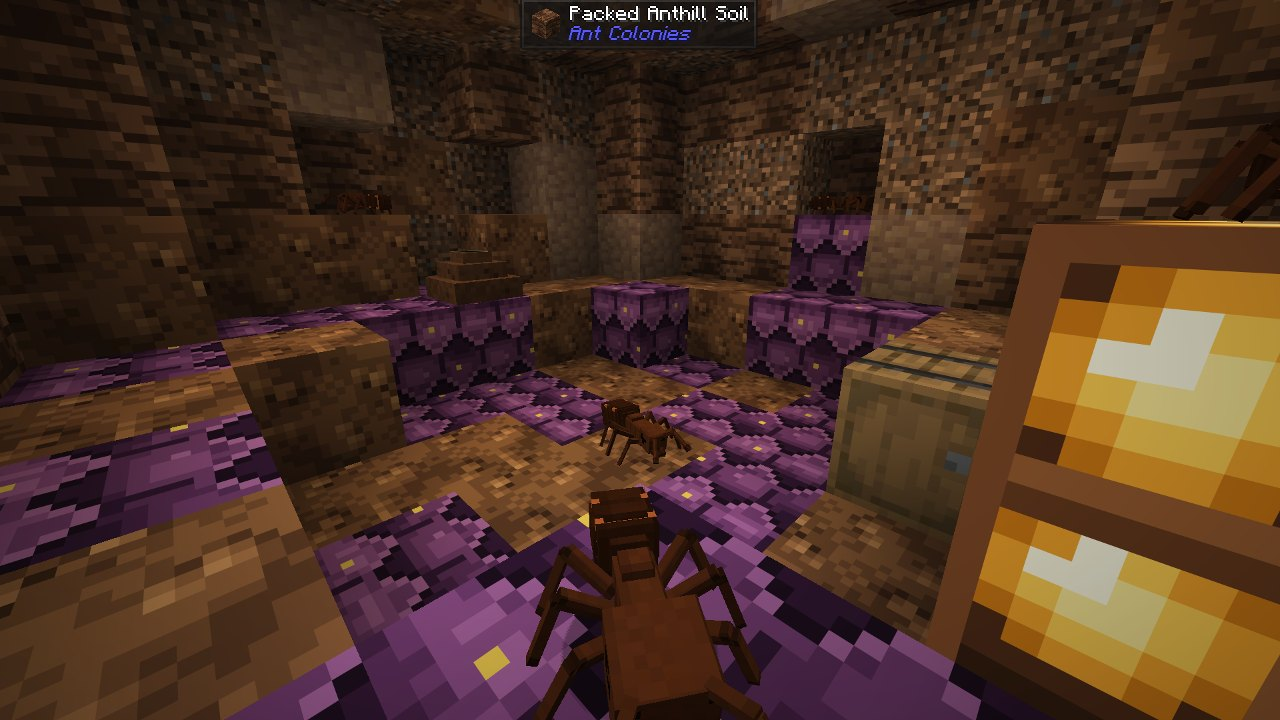
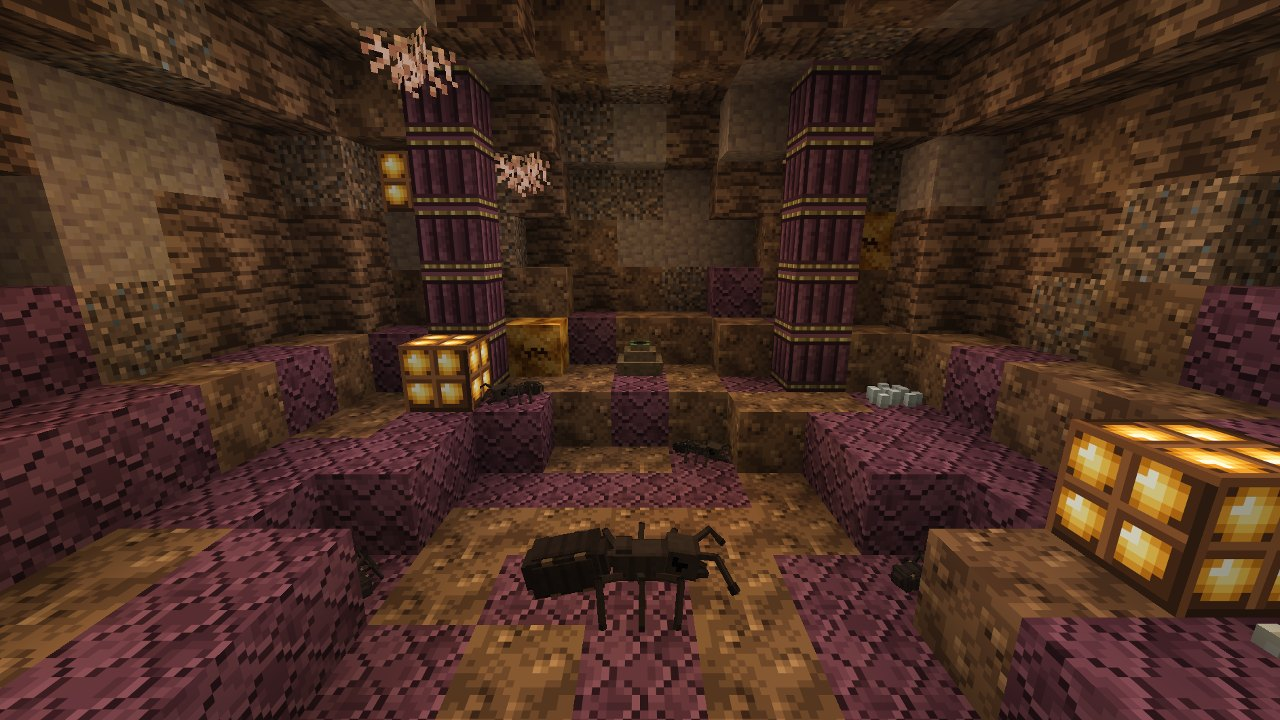
README, gallery and CurseForge page for 0.7.0: ants for fun, hunters, anthills by biome and inside, a wild nest, new building blocks

diff --git a/docs/curseforge-page.md b/docs/curseforge-page.md
@@ -49,8 +49,9 @@ into thousands of workers that mine, farm, hunt and evolve.
 
 - **Living colonies.** A Formicarium holds a whole colony you can watch: tunnels, eggs, larvae and workers. Place
   chambers against it to grow it: nests, Foraging and Harvesting Sites, Hunting Grounds and Storage.
-- **56 species.** Catch 16 wild ones, mutate them into iron, diamond, netherite and other mineral ants, breed hybrids,
-  and reach the endgame Wither and Dragon Ants.
+- **56 species.** Catch 17 wild ones, mutate them into iron, diamond, netherite and other mineral ants, breed hybrids,
+  and reach the endgame Wither and Dragon Ants. Ten are just for fun: a Cow Ant that gives milk, a Baker, a Pirate, a
+  Fisher.
 - **Genetic research.** Scan materials in the Genetic Laboratory. Discoveries are permanent, fill in the Ant
   Identification Book and unlock species mutations.
 - **Genetics.** Every Queen has ten traits and can carry any of 31 mutations, and the game says what each one does.
@@ -61,8 +62,9 @@ into thousands of workers that mine, farm, hunt and evolve.
   droplets into the real fluid.
 - **Expeditions.** Nether and End ants bring back that dimension's riches through little portals at home.
 - **Colony Connectors.** Link nearby colonies so food and items flow to where they are needed.
-- **Anthills.** Explore giant anthills in the Overworld, the Nether and the End, each shaped by its biome, with loot,
-  soldiers and a great Queen guarded by her Royal Guard Ants. Touch their chests and the whole anthill comes after you.
+- **Anthills.** Explore giant anthills in the Overworld, the Nether and the End, each built and furnished to suit its
+  biome, with loot, soldiers and a great Queen guarded by her Royal Guard Ants. Touch their chests and the whole
+  anthill comes after you.
 - **Chitin gear.** Four tiers of ant armor and tools, with jaws, spines and wings. In a full set, wild ants leave you
   alone.
 - **Building blocks.** Anthill bricks, chitin plates, amber, fungal and royal blocks, with stairs, slabs and walls.
@@ -75,7 +77,7 @@ into thousands of workers that mine, farm, hunt and evolve.
 ## Getting started
 
 1. Craft **Tweezers** and **Test Tubes**.
-2. Use the Tweezers on a wild ant nest until you catch a Queen.
+2. Use the Tweezers on a wild ant nest: your first catch from each kind of nest is a Queen.
 3. Place a **Formicarium** and put the Queen and some Ant Food in it.
 4. Add chambers as the colony grows. JEI or EMI shows every recipe.
 5. Build a **Genetic Laboratory**, scan materials in it and mutate your Queens into mineral ants.
@@ -99,7 +101,7 @@ Free to use in any modpack (MIT License).
 
 ## 3. Images (Media tab)
 
-Upload these 27 from `docs/images/screenshots/`, in this order:
+Upload these 33 from `docs/images/screenshots/`, in this order:
 
 | File | Title | Description |
 |---|---|---|
@@ -107,6 +109,8 @@ Upload these 27 from `docs/images/screenshots/`, in this order:
 | `terrarium.jpg` | A living Formicarium | Workers dig tunnels and carry food behind the glass |
 | `vertical-formicarium.jpg` | Built upward | Stacked blocks become one nest behind glass, chambers joined by tunnels |
 | `liquid-ants.jpg` | Liquid Ants | Ants that carry fluids, and the Droplet Centrifuge |
+| `ants-for-fun.jpg` | Ants for fun | Ten species in costumes: a Cow Ant, a Baker, a Pirate and more |
+| `hunting-ground.jpg` | Hunters | Bullet Ants fighting at their Hunting Ground |
 | `colony-screen.png` | The colony screen | Queen, health, food and ants at a glance |
 | `jobs-screen.png` | Jobs | Ants, priority and modes for every working site |
 | `statistics-screen.png` | Statistics | The colony over the last half hour |
@@ -123,9 +127,13 @@ Upload these 27 from `docs/images/screenshots/`, in this order:
 | `chitin-tiers-back.jpg` | Spines and wings | The higher tiers from behind |
 | `expedition-sites.jpg` | Expeditions | Nether and End Foraging Sites |
 | `connected-colonies.jpg` | Colony Connectors | Food and items between nearby colonies |
-| `building-blocks.jpg` | Building blocks | Anthill, chitin, amber, fungal and royal blocks |
-| `giant-anthill.jpg` | A giant anthill | A structure shaped by its biome, with loot and defenders |
-| `anthill-queen-chamber.jpg` | Inside an anthill | Tunnels and chambers, and a Queen to catch |
+| `building-blocks.jpg` | Building blocks | Anthill, chitin, royal, amber and fungal blocks, and anthill soil in four of its tones |
+| `giant-anthill.jpg` | A giant anthill | A structure with loot and defenders |
+| `anthills-overworld.jpg` | Anthills by biome | Desert, badlands, taiga and ice spikes |
+| `anthills-nether-end.jpg` | Nether and End anthills | Crimson and warped forests, a soul sand valley and the End's highlands |
+| `anthill-queen-chamber.jpg` | Inside an anthill | The great Queen's chamber, and a Queen to catch |
+| `anthill-rooms.jpg` | Furnished rooms | A fungus garden, an aphid farm, a nursery and a treasure chamber |
+| `wild-nest.jpg` | A wild nest | One worker walks around every nest |
 | `machines.jpg` | The machines | The Generator and the Droplet Centrifuge, working and idle |
 | `recipe-viewer.png` | JEI and EMI | Expeditions and every recipe |
 | `recipe-viewer-mutation.png` | Species Mutation recipes | Every species mutation and what it needs |

diff --git a/docs/gameplay.md b/docs/gameplay.md
@@ -29,13 +29,16 @@ The numbers on these pages are the defaults. A server can change most of them in
 ## Getting started
 
 1. Craft **Tweezers** and a few **Test Tubes**.
-2. Find wild ants or a wild **Ant Nest**. They live in plains, forests, taigas, mountains, snowy biomes, deserts and
-   jungles. A nest is easy to miss, so look for its ant: **one worker walks around every wild nest** while you are near.
-   Right-click the nest or an ant with the Tweezers. Workers go into a tube of the same ants if you carry one with room,
-   anything else into an empty tube from your inventory. **Your first catch from each kind of nest is always a Queen**:
-   one from the first Stone Ant nest you try, one from the first Wood Ant nest, and so on. After that a nest of that
-   kind gives a Queen only now and then (5%). **A nest you took ants from needs ten minutes** until its ants are
-   back: Tweezers on it show the time left, and so does Jade.
+2. Find a wild **Ant Nest** or wild ants, and right-click the nest or an ant with the Tweezers. They live in plains,
+   forests, taigas, mountains, snowy biomes, deserts and jungles.
+   - **Look for the nest's ant.** A nest is easy to miss, but one worker walks around every wild nest while you are
+     near.
+   - **Your first catch from each kind of nest is always a Queen**: one from the first Stone Ant nest you try, one
+     from the first Wood Ant nest, and so on. After that a nest of that kind gives a Queen only now and then (5%).
+   - **A nest you took ants from needs ten minutes** until its ants are back. Tweezers on it show the time left, and
+     so does Jade.
+   - **Tubes.** Workers go into a tube of the same ants if you carry one with room, anything else into an empty tube
+     from your inventory.
 3. Place a **Formicarium**. Put the **Queen Test Tube** in (right-click, or the Queen slot) and add some **Ant Food**.
 4. Open the **Info** tab. If the climate is wrong, put the block it shows under the Formicarium.
 5. Add chambers as the colony grows: a **Nest Chamber** for more ants, a **Foraging Site** to put workers to work and a
@@ -154,7 +157,7 @@ Chambers join a colony. Job sites that only some species use are left alone by t
 | Nest Chamber | Eggs at full speed, faster larvae, and room for 3,000 adults and 1,500 larvae. More chambers lay faster, each a little less. |
 | Foraging Site | Workers find the species' items. Takes species upgrades. |
 | Harvesting Site | Farmer species grow food and harvest mushrooms, seeds and berries. |
-| Hunting Ground | Hunter species hunt mobs. Each catch gives the mob's own drops and 40 food. No mobs are spawned. Its nine slots hold the loot while the Storage is full. From stage 3 Bullet Ants also bring phantom membranes and Rabbit Ants, rarely, a rabbit's foot, drops those mobs only give a player. |
+| Hunting Ground | Hunter species hunt mobs. Each catch gives the mob's own drops and 40 food. Behind the glass the hunters fight a small mob of the kind they hunt; no real mob is spawned. Its nine slots hold the loot while the Storage is full. From stage 3 Bullet Ants also bring phantom membranes and Rabbit Ants, rarely, a rabbit's foot. |
 | Liquid Chamber | [Liquid Ants](#liquid-ants-and-the-droplet-centrifuge) give droplets of their fluid. |
 | Storage | Holds the finds in 18 slots and adds 25,000 food room. Hoppers can empty it. |
 | Queen Chamber | Raises daughter Queens. With a Genetic Sample it can raise [hybrids](species-and-genetics.md#hybrids). |

diff --git a/README.md b/README.md
@@ -24,7 +24,7 @@ that mine, farm, hunt and evolve.
 
 - **Living colonies.** A Formicarium holds a Queen, her brood and thousands of workers you can watch behind the glass.
   Chambers placed against it join the colony.
-- **56 species.** Catch 16 wild ones, mutate them into iron, diamond and netherite ants, breed hybrids, and reach the
+- **56 species.** Catch 17 wild ones, mutate them into iron, diamond and netherite ants, breed hybrids, and reach the
   endgame Wither and Dragon Ants. Ten are just for fun: a Cow Ant that gives milk, a Baker, a Pirate, a Fisher.
 - **Genetic research.** Scan materials in the Genetic Laboratory to discover species mutations and genes for good.
 - **Genetics.** Every Queen has ten traits and can carry any of 31 mutations. Edit, cross and stabilize her genes in
@@ -32,7 +32,8 @@ that mine, farm, hunt and evolve.
 - **Liquid Ants.** Ants that carry water, lava and other mods' fluids, and a Droplet Centrifuge for their droplets.
 - **The Nether and the End.** Expeditions through little portals at home, and Colony Connectors that share food and
   items.
-- **Giant anthills.** Structures in all three dimensions, with loot, soldiers and a great Queen to catch.
+- **Giant anthills.** Structures in all three dimensions, built and furnished to suit their biome, with loot, soldiers
+  and a great Queen to catch.
 - **Chitin gear and Guard Ants.** Four tiers of armor and tools, and an ant that follows you and fights for you.
 - **Made for modpacks.** Species, evolutions, mutations, food and loot are data packs, and a server config sets the
   numbers. JEI, EMI and Jade are supported, and any mod's pipes and cables work.
@@ -47,8 +48,10 @@ that mine, farm, hunt and evolve.
 | A colony built upward: one nest behind glass | Liquid Ants and the Droplet Centrifuge |
 | ![The Genetic Laboratory's scanner](docs/images/screenshots/laboratory-research.png) | ![Species Mutation](docs/images/screenshots/laboratory-mutation.png) |
 | Genetic research: scan a material, keep the discovery | Species Mutation: a Stone Ant Queen becomes an Iron Ant |
-| ![Giant anthill](docs/images/screenshots/giant-anthill.jpg) | ![Chitin armor tiers](docs/images/screenshots/chitin-tiers.jpg) |
-| A giant anthill | Chitin, Hardened, Infernal and Void armor |
+| ![Ants for fun](docs/images/screenshots/ants-for-fun.jpg) | ![Hunters at a Hunting Ground](docs/images/screenshots/hunting-ground.jpg) |
+| The ten ants for fun, each in its costume | Hunters fighting at their Hunting Ground |
+| ![Anthills of the Overworld](docs/images/screenshots/anthills-overworld.jpg) | ![Chitin armor tiers](docs/images/screenshots/chitin-tiers.jpg) |
+| Giant anthills take the look of their biome | Chitin, Hardened, Infernal and Void armor |
 
 More in the [gallery](docs/gallery.md).
 

diff --git a/docs/gallery.md b/docs/gallery.md
@@ -12,6 +12,8 @@ Screenshots of Ant Colonies. The [gameplay guide](gameplay.md) explains what the
 | A colony built upward: one nest behind glass, its chambers joined by tunnels | Liquid Ants, each carrying its fluid, and the Droplet Centrifuge |
 | ![Expedition sites](images/screenshots/expedition-sites.jpg) | ![Connected colonies](images/screenshots/connected-colonies.jpg) |
 | Nether and End Foraging Sites | Colonies linked by Colony Connectors |
+| ![Ants for fun](images/screenshots/ants-for-fun.jpg) | ![Hunters at a Hunting Ground](images/screenshots/hunting-ground.jpg) |
+| The ten ants for fun, each in its costume | Bullet Ants fighting at their Hunting Ground |
 
 ## Screens
 
@@ -39,12 +41,16 @@ Screenshots of Ant Colonies. The [gameplay guide](gameplay.md) explains what the
 
 | | |
 |:---:|:---:|
-| ![Giant anthill](images/screenshots/giant-anthill.jpg) | ![Inside a giant anthill](images/screenshots/anthill-queen-chamber.jpg) |
-| A giant anthill | Inside it |
+| ![Giant anthill](images/screenshots/giant-anthill.jpg) | ![Anthills of the Overworld](images/screenshots/anthills-overworld.jpg) |
+| A giant anthill | Anthills take the look of their biome: desert, badlands, taiga and ice spikes |
+| ![Anthills of the Nether and the End](images/screenshots/anthills-nether-end.jpg) | ![Inside a giant anthill](images/screenshots/anthill-queen-chamber.jpg) |
+| Crimson and warped forests, a soul sand valley and the End's highlands | Inside: the great Queen's chamber |
+| ![Rooms of an anthill](images/screenshots/anthill-rooms.jpg) | ![A wild nest](images/screenshots/wild-nest.jpg) |
+| Furnished rooms: a fungus garden, an aphid farm, a nursery and a treasure chamber | A wild nest, and the ant that walks around it |
 | ![Chitin armor tiers](images/screenshots/chitin-tiers.jpg) | ![Chitin armor from behind](images/screenshots/chitin-tiers-back.jpg) |
 | Chitin, Hardened, Infernal and Void armor | Spines and a Queen's wings on the back |
 | ![Building blocks](images/screenshots/building-blocks.jpg) | ![Generator and Droplet Centrifuge](images/screenshots/machines.jpg) |
-| Building blocks: anthill, chitin, amber, fungal and royal | The Generator and the Droplet Centrifuge, working and idle |
+| Building blocks: anthill and chitin; royal, amber and the Pheromone Lamp; fungal, a Nest Door, Formicarium Glass and anthill soil in four of its tones | The Generator and the Droplet Centrifuge, working and idle |
 
 ## Other mods
 
